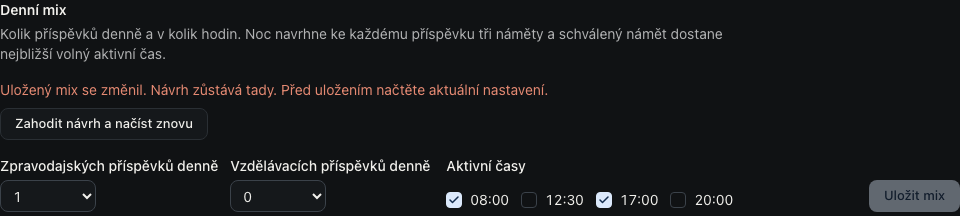
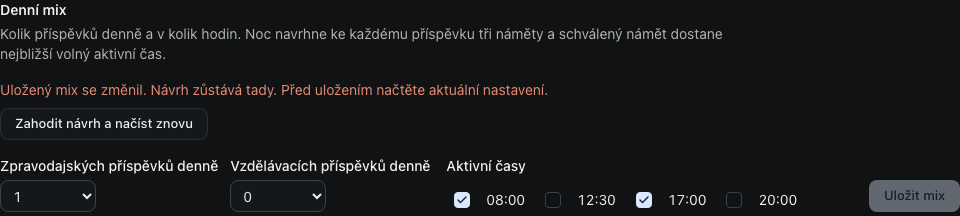
Record full checks and highlight pending Task density changes

Changed region(s): [[0.4375, 0.8889, 0.8438, 0.9722]]

diff --git a/docs/reports/app-wide-audit-2026-10-23/visual-plan.html b/docs/reports/app-wide-audit-2026-10-23/visual-plan.html
@@ -4,10 +4,16 @@
 :root{color-scheme:light dark;--canvas:#f4f5f7;--surface:#fff;--ink:#1e2329;--muted:#59616c;--line:#d9dee5;--accent:#245db2;--tint:#eaf1fc;--mark:#e5a122;font-family:system-ui,-apple-system,BlinkMacSystemFont,"Segoe UI",sans-serif;line-height:1.55}
 *{box-sizing:border-box}body{margin:0;background:var(--canvas);color:var(--ink)}main{max-width:1240px;margin:auto;padding:40px 24px 64px}h1{font-size:clamp(28px,4vw,42px);letter-spacing:-.035em;line-height:1.15;margin:10px 0 16px}h2{font-size:23px;letter-spacing:-.025em;margin:0}h3{font-size:17px;margin:0 0 8px}p{margin:0 0 14px}.eyebrow{font-size:12px;font-weight:650;letter-spacing:.08em;text-transform:uppercase;color:var(--muted)}.intro{max-width:780px;font-size:17px}.notice{padding:16px 18px;background:var(--tint);border:1px solid var(--line);border-radius:10px;margin:24px 0}.meta,.source{font-size:13px;color:var(--muted)}a{color:var(--accent);text-underline-offset:3px}a:focus-visible,button:focus-visible,input:focus-visible,select:focus-visible,.screen-scroll:focus-visible,.table-scroll:focus-visible{outline:3px solid var(--accent);outline-offset:3px}.toolbar{display:flex;flex-wrap:wrap;align-items:center;gap:12px;border-block:1px solid var(--line);padding:14px 0;margin:26px 0}.segmented{display:inline-flex;gap:4px}button,select{font:inherit;min-height:44px;border:1px solid var(--line);border-radius:7px;background:var(--surface);color:var(--ink);padding:8px 14px}button{cursor:pointer}button[aria-pressed=true]{background:var(--tint);border-color:var(--accent)}label{display:inline-flex;align-items:center;gap:8px;min-height:44px}input[type=checkbox]{width:18px;height:18px;accent-color:var(--accent)}nav{display:flex;flex-wrap:wrap;gap:8px 18px;margin:0 0 28px}nav a{min-height:44px;display:inline-flex;align-items:center}.component{padding:22px;background:var(--surface);border:1px solid var(--line);border-radius:12px;margin-bottom:28px;scroll-margin-top:20px}.component-heading{display:flex;align-items:center;justify-content:space-between;flex-wrap:wrap;gap:12px;margin-bottom:6px}.status{font-size:12px;padding:5px 9px;border-radius:6px;background:var(--tint);color:var(--accent)}.screen-scroll{max-width:var(--capture-width);max-height:660px;overflow:auto;border:1px solid var(--line);border-radius:8px;background:#101214;margin:18px auto}.screen{position:relative;margin:0;width:100%}.screen img{display:block;width:100%;height:auto}.marks{position:absolute;inset:0;pointer-events:none}.mark{position:absolute;border:2px solid var(--mark);border-radius:5px}.mark b{position:absolute;top:0;left:0;background:var(--mark);color:#20170a;padding:2px 7px;font-size:12px}.mobile .screen-scroll{max-width:min(390px,var(--capture-width))}.mobile .screen{max-width:390px;margin:auto}.mobile .marks,.hide-marks .marks{display:none}ol{padding-left:22px;max-width:88ch}li+li{margin-top:7px}.table-scroll{overflow:auto;border:1px solid var(--line);border-radius:8px;margin-top:18px}table{width:100%;border-collapse:collapse;min-width:700px;text-align:left;font-size:14px}th,td{padding:12px;vertical-align:top;border-bottom:1px solid var(--line)}thead th{background:var(--tint)}tbody th{width:20%}section+section{margin-top:32px}.next-grid{display:grid;grid-template-columns:repeat(auto-fit,minmax(240px,1fr));gap:16px}.next-grid article{background:var(--surface);padding:18px;border:1px solid var(--line);border-radius:9px}.next-grid p{margin:0;font-size:14px}.note{font-size:13px;color:var(--muted)}footer{border-top:1px solid var(--line);margin-top:36px;padding-top:18px;color:var(--muted);font-size:13px}@media(prefers-color-scheme:dark){:root{--canvas:#101214;--surface:#191c20;--ink:#edf0f4;--muted:#adb5c0;--line:#343b45;--accent:#98bbf6;--tint:#233249}}@media(max-width:600px){main{padding:24px 14px 44px}.component{padding:14px}.status{font-size:11px}.toolbar{gap:8px}.source{overflow-wrap:anywhere}}@media print{.toolbar,nav{display:none}.screen-scroll{max-height:none;overflow:visible}.component{break-inside:avoid}body{background:white;color:black}}
 </style></head><body><main>
-<header><p class="eyebrow">OwnDashboard · code and UX audit</p><h1>Components and remaining review</h1><p class="intro">This working plan highlights real components already changed and keeps the remaining review visible. All images are authentic preview captures using documented fixture data.</p><p class="meta">Source snapshot <strong>109c806</strong> · 642 inventory entries · 261 awaiting review · 41 in partial review.</p></header>
+<header><p class="eyebrow">OwnDashboard · code and UX audit</p><h1>Components and remaining review</h1><p class="intro">This working plan highlights real components already changed and keeps the remaining review visible. All images are authentic preview captures using documented fixture data.</p><p class="meta">Source snapshot <strong>dcf5ecf</strong> · 642 inventory entries · 255 awaiting review · 45 in partial review.</p></header>
 <div class="notice" role="note"><strong>The app-wide audit is still in progress.</strong> Source review, rendered checks and production release are separate steps. Main merge, prepared migrations and final release checks remain pending. <a href="review.md">Read the evidence and limitations</a>.</div>
 <div class="toolbar"><div class="segmented" role="group" aria-label="Screenshot viewport"><button type="button" data-view="desktop" aria-pressed="true">Desktop</button><button type="button" data-view="mobile" aria-pressed="false">Mobile</button></div><label><input id="highlights" type="checkbox" checked>Highlight changed areas</label><span class="note">Mobile captures use their original scrollable height.</span></div>
-<nav aria-label="Review areas"><a href="#source-edit">Source settings and retained drafts</a><a href="#daily-mix">Daily publishing limits and draft recovery</a><a href="#login">Sign-in and recovery</a><a href="#repository">Repository notes</a><a href="#operations">Project operations and note recovery</a><a href="#project-details">Project edit recovery</a><a href="#history">Repository activity</a><a href="#feedback">Notifications and mobile navigation</a><a href="#guest-notice">Guest tour notice and privacy</a><a href="#finance">Money overview</a><a href="#monitoring">Cron history</a><a href="#remaining">Remaining work</a><a href="#coverage">Page coverage</a></nav>
+<nav aria-label="Review areas"><a href="#task-density">Tasks: reduce nested cards and scattered metadata</a><a href="#source-edit">Source settings and retained drafts</a><a href="#daily-mix">Daily publishing limits and draft recovery</a><a href="#login">Sign-in and recovery</a><a href="#repository">Repository notes</a><a href="#operations">Project operations and note recovery</a><a href="#project-details">Project edit recovery</a><a href="#history">Repository activity</a><a href="#feedback">Notifications and mobile navigation</a><a href="#guest-notice">Guest tour notice and privacy</a><a href="#finance">Money overview</a><a href="#monitoring">Cron history</a><a href="#remaining">Remaining work</a><a href="#coverage">Page coverage</a></nav>
+<article id="task-density" class="component">
+<div class="component-heading"><h2>Tasks: reduce nested cards and scattered metadata</h2><span class="status">Touch targets fixed · density review pending</span></div>
+<p class="source">src/components/panels/todos-panel.tsx · Czech · actual Task page after target sizing</p>
+<div class="screen-scroll" style="--capture-width:1400px" role="region" aria-label="Tasks: reduce nested cards and scattered metadata screenshot" tabindex="0"><figure class="screen" data-desktop="assets/task-density-cs-1440.png" data-mobile="assets/task-density-cs-360.png"><img src="assets/task-density-cs-1440.png" alt="Actual dev-preview capture of Tasks: reduce nested cards and scattered metadata" loading="lazy" width="1440">
+<div class="marks" aria-hidden="true"><span class="mark" style="left:19.2%;top:25.5%;width:37.6%;height:9.5%"><b>1</b></span><span class="mark" style="left:59.8%;top:25.4%;width:37.4%;height:40.1%"><b>2</b></span></div></figure></div>
+<ol><li>Checkbox targets now match the shared mobile and desktop sizes; the visible mark remains compact.</li><li>Next: replace the card around every task with grouped rows and shared dividers. Preserve project grouping, names, due dates and assignees.</li><li>Bring related metadata onto one compact desktop line where it fits, and wrap only when needed on mobile. Manual/repository mutations and completed-task behavior still need their full source review.</li></ol></article>
 <article id="source-edit" class="component">
 <div class="component-heading"><h2>Source settings and retained drafts</h2><span class="status">Implemented · final release pending</span></div>
 <p class="source">src/components/marketing/dneskai-source-forms.tsx · Czech · actual source conflict dialog crops</p>

diff --git a/docs/reports/app-wide-audit-2026-10-23/review.md b/docs/reports/app-wide-audit-2026-10-23/review.md
@@ -21,7 +21,7 @@ Each destination needs source/data-flow review, relevant business and failure ch
 | Backend and operations | API routes, cron/provider budgets, database ownership and query plans | Reviewing |
 | Release | Current-doc reconciliation, full validation, additive migrations, PR, main merge, deployment | Pending |
 
-The [working visual plan](visual-plan.html) annotates authentic preview screenshots of the changed login, repository notes, project operations, repository activity, notifications/mobile navigation, Money, cron-history, project-edit recovery, guest-notice, source-edit and daily-mix recovery components. It has desktop/mobile switches and keeps remaining areas explicitly pending. Rebuild it with `node scripts/build-app-audit-visual-plan.mjs` after updating this report or the inventory.
+The [working visual plan](visual-plan.html) highlights the next Task-density work and annotates authentic preview screenshots of the changed login, repository notes, project operations, repository activity, notifications/mobile navigation, Money, cron-history, project-edit recovery, guest-notice, source-edit and daily-mix recovery components. It has desktop/mobile switches and keeps remaining areas explicitly pending. Rebuild it with `node scripts/build-app-audit-visual-plan.mjs` after updating this report or the inventory.
 
 ## Findings under review
 
@@ -327,7 +327,7 @@ Repository/auth follow-up: findings 80–87 address request-scoped provider reus
 154. Fixed: creating a Music-library track no longer deletes its stored object after a failed, duplicate or ambiguous metadata insert. The creation helper clones validated intent before any await and compares persisted owner-scoped identity, exact metadata, deduplicated mood order and canonical file path before success. An identical retry reuses the stored track without another file download or probe and preserves a later disable. Concurrent identical creates and a committed insert with a lost acknowledgement reconcile to one stored row; different metadata/file identity, suppressed writes and altered fields/duration cannot produce success. Invalid unrecorded uploads are retained for reconciliation rather than removed from a request that may overlap another writer. Blob size is checked before copying its bytes, and non-integral/non-finite probe durations cannot reach the insert. Fifty-nine focused cases across five files, TypeScript and targeted ESLint pass. Ten new cases run the actual Supabase SDK against all 113 local migrations and private fixture Storage, including foreign-owner isolation, simultaneous creates, lost acknowledgements, altered/suppressed writes, input mutation and HTTP download counts. The first red run reproduced four failures in five cases; a later request-count assertion was corrected to include the installed SDK's authenticated object endpoint without its optional path segment. Neither diagnostic run is passing evidence. The existing native ffmpeg fixture also passes. No new migration, owner file, real provider or production record was touched. The larger audio source review remains partial: upload/probe/request deadlines, strict complete list reads, browser receipt/lifecycle guards and a safe unrecorded-upload retention policy remain to be completed. Primary contract checked on 24 October: [Supabase inserts and returned rows](https://supabase.com/docs/reference/javascript/insert), [private downloads](https://supabase.com/docs/reference/javascript/storage-from-download), and [signed upload URLs](https://supabase.com/docs/reference/javascript/storage-from-createsigneduploadurl).
 
 
-155. Fixed: the audio probe has a fifteen-second process deadline and caller cancellation with SIGKILL, waits for child close before removing temporary files, and never trusts plausible partial output from a stalled/failed process. It bounds input size before file work, stderr to 8,000 characters, analysis to five seconds, the probe prefix to 1 MiB, streams to eight, decoder threads to one and any individual ffmpeg allocation to 64 MiB. These are separate limits, not a claimed total process-memory ceiling. Only supported audio containers and local file/pipe protocols are allowed; one audio second must decode successfully before the duration is accepted. A real MP3 fixture also reproduced title metadata such as “Duration: 00:10:00.00” being mistaken for the measured duration. Parsing now requires the tool's own line prefixes and valid minute/second ranges. Decoder availability/timeout failures remain unavailable rather than being mislabeled as a confirmed invalid file; no metadata write or file deletion follows them. Seventy focused cases across six files, TypeScript and targeted ESLint pass. Eleven new real-process cases cover MP3, WAV, Ogg, AAC and M4A, forged title metadata, caller abort with a private reason, missing executables, input bounds, unsupported playlists and a stalled executable that ignores SIGTERM; terminated fixture PIDs are confirmed stopped. The first short fixture deadline expired before its startup marker and is excluded, as is the deliberate metadata red case. The final process fixture starts predictably and uses a 1.5-second test deadline; the production ceiling stays fifteen seconds. Whole HTTP/auth/storage/database/client budgets, upload draft/retry lifecycle, strict audio list reads and unrecorded-upload retention remain unfinished. Primary references checked on 24 October: [Node child-process timeout and cancellation](https://nodejs.org/api/child_process.html), [FFmpeg format limits](https://ffmpeg.org/ffmpeg-formats.html), and [protocol allowlists](https://ffmpeg.org/ffmpeg-protocols.html). No provider, production data or owner file was accessed or changed.
+155. Fixed: the audio probe has a fifteen-second process deadline and caller cancellation with SIGKILL, waits for child close before removing temporary files, and never trusts plausible partial output from a stalled/failed process. It bounds input size before file work, stderr to 8,000 characters, analysis to five seconds of media, the probe buffer to 1 MiB, streams to eight, decoder threads to one and any individual ffmpeg allocation to 64 MiB. These are separate limits, not a claimed total process-memory ceiling. Only supported audio containers and local file/pipe protocols are allowed; one audio second must decode successfully before the duration is accepted. A real MP3 fixture also reproduced title metadata such as “Duration: 00:10:00.00” being mistaken for the measured duration. Parsing now requires the tool's own line prefixes and valid minute/second ranges. Decoder availability/timeout failures remain unavailable rather than being mislabeled as a confirmed invalid file; no metadata write or file deletion follows them. Seventy focused cases across six files, TypeScript and targeted ESLint pass. Eleven new real-process cases cover MP3, WAV, Ogg, AAC and M4A, forged title metadata, caller abort with a private reason, missing executables, input bounds, unsupported playlists and a stalled executable that ignores SIGTERM; terminated fixture PIDs are confirmed stopped. The first short fixture deadline expired before its startup marker and is excluded, as is the deliberate metadata red case. The final process fixture starts predictably and uses a 1.5-second test deadline; the production ceiling stays fifteen seconds. Whole HTTP/auth/storage/database/client budgets, upload draft/retry lifecycle, strict audio list reads and unrecorded-upload retention remain unfinished. Primary references checked on 24 October: [Node child-process timeout and cancellation](https://nodejs.org/api/child_process.html), [FFmpeg format limits](https://ffmpeg.org/ffmpeg-formats.html), and [protocol allowlists](https://ffmpeg.org/ffmpeg-protocols.html). No provider, production data or owner file was accessed or changed.
 
 
 Targeted validation for these shared changes: 19 tests passed across server-page, route-data and real query-cache/retry component tests; TypeScript and targeted ESLint passed. Full release and rendered checks remain pending.
@@ -440,3 +440,8 @@ At source commit `289d04b` (checkpoint 61), the corrected full suite passes 4,22
 ## Full validation checkpoint 62 — 24 October 2026
 
 At source commit `109c806`, the full suite passes 4,297 cases with one intentional skip (423 passed files, one skipped file), in 162.17 seconds with two workers. Full ESLint, the ordinary Next.js 16.4.3 production build, all eight actual render traces and post-build TypeScript pass. The build uses public fixture configuration and `NEXT_E2E=0`; these local artifacts must not be deployed. Twenty stable EN/CS desktop/mobile source/mix browser cases pass; diagnostic mixed-version/route-fixture runs are excluded in finding 152. The updated HTML plan contains eleven authentic desktop/mobile pairs and ten coverage rows. Both modes, every image, controls, mobile image widths, six-width reflow, axe and page errors pass; desktop and mobile plan screenshots were inspected. The source ledger has 642 entries (261 pending, 41 partial). A fresh fetch has no upstream-only main commits and 160 audit commits ahead at this checkpoint. Twenty-seven audit migrations remain prepared/unapplied (113 local files). The action list now names migration 113 as the latest prepared file. Remaining source review, complete optimized interactions, migration rollout, current-document reconciliation and main merge remain unfinished.
+
+
+## Full validation checkpoint 63 — 24 October 2026
+
+At source commit `dcf5ecf`, the full suite passes 4,328 cases with one intentional skip (426 passed files, one skipped file), in 161.57 seconds with two workers. Full ESLint, the ordinary Next.js 16.4.3 production build, all eight real render traces and post-build TypeScript pass. The build uses public fixture configuration and `NEXT_E2E=0`; these local artifacts must not be deployed. Shared-control browser evidence and audio database/process checks are recorded in findings 153–155. The HTML plan has twelve authentic desktop/mobile pairs and ten coverage rows. It now labels Task-density work explicitly pending and highlights its current nested cards and scattered metadata; it also refreshes the daily-mix captures after shared target sizing. Both modes, every image, pending status, controls, mobile image widths, six-width reflow, axe and page errors pass; desktop and mobile plan screenshots were inspected. The source ledger has 642 entries (255 pending, 45 partial). A fresh main fetch has no upstream-only commits and 164 audit commits ahead at the pre-checkpoint fetch. Twenty-seven audit migrations remain prepared/unapplied (113 local files). Remaining source review, complete optimized interactions, migration rollout, current-document reconciliation and main merge are unfinished.
